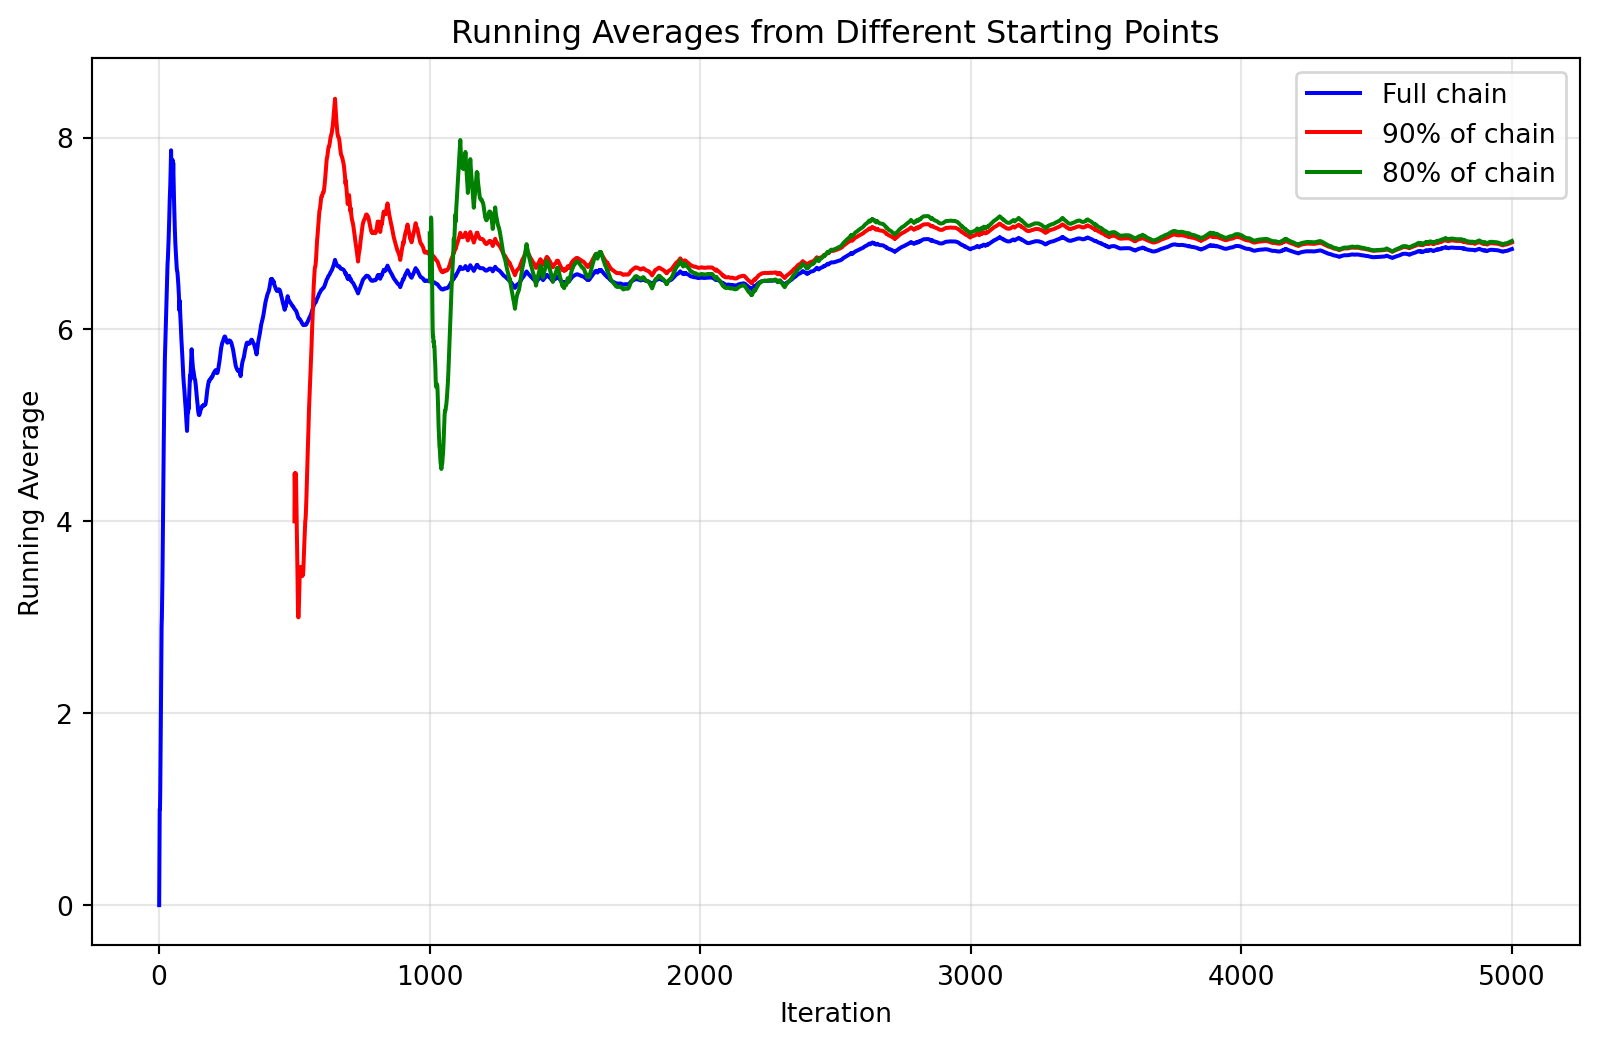
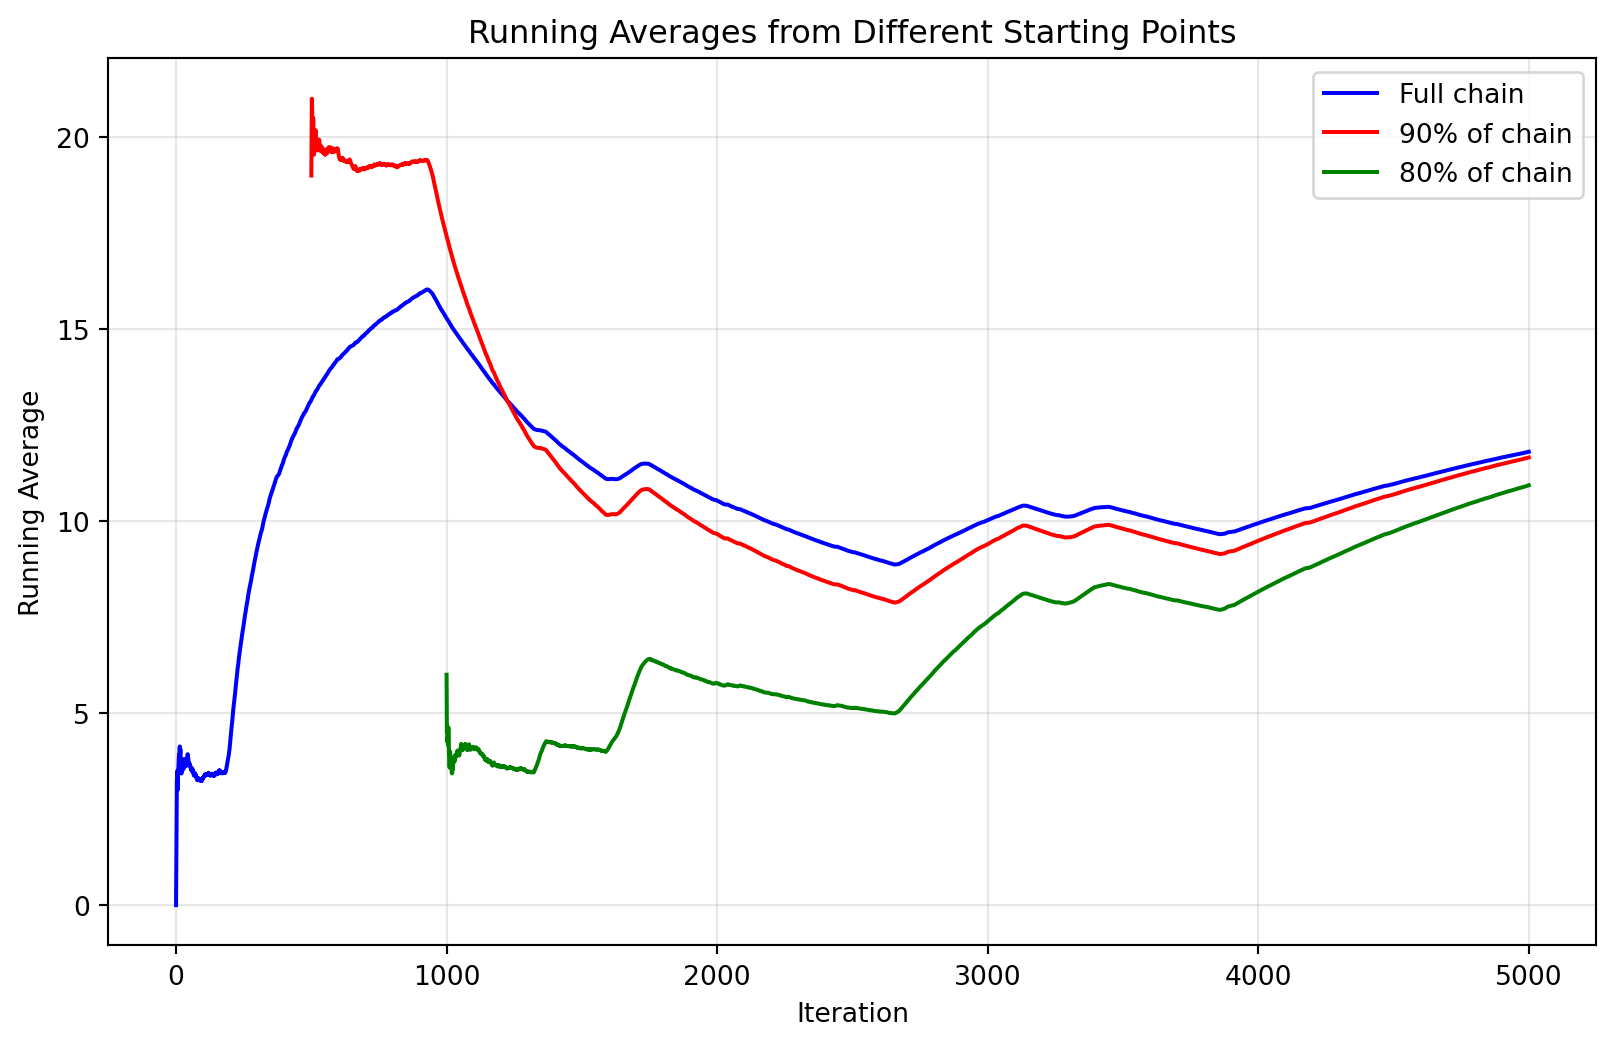
playing with graph theory

diff --git a/docs/appendices/markov_chains.html b/docs/appendices/markov_chains.html
@@ -437,6 +437,12 @@ window.Quarto = {
 </li>
           <li class="sidebar-item">
   <div class="sidebar-item-container"> 
+  <a href="../chapters/applications/mmn.html" class="sidebar-item-text sidebar-link">
+ <span class="menu-text"><span class="chapter-number">15</span>&nbsp; <span class="chapter-title">M/M/n Queue</span></span></a>
+  </div>
+</li>
+          <li class="sidebar-item">
+  <div class="sidebar-item-container"> 
   <a href="../chapters/applications/bootstrap.html" class="sidebar-item-text sidebar-link">
  <span class="menu-text"><span class="chapter-number">16</span>&nbsp; <span class="chapter-title">Bootstrap</span></span></a>
   </div>
@@ -454,6 +460,12 @@ window.Quarto = {
       <ul id="quarto-sidebar-section-4" class="collapse list-unstyled sidebar-section depth1 show">  
           <li class="sidebar-item">
   <div class="sidebar-item-container"> 
+  <a href="../chapters/dynamical/kalman_filters.html" class="sidebar-item-text sidebar-link">
+ <span class="menu-text"><span class="chapter-number">17</span>&nbsp; <span class="chapter-title">Kalman Filters</span></span></a>
+  </div>
+</li>
+          <li class="sidebar-item">
+  <div class="sidebar-item-container"> 
   <a href="../chapters/dynamical/particle_filters.html" class="sidebar-item-text sidebar-link">
  <span class="menu-text"><span class="chapter-number">18</span>&nbsp; <span class="chapter-title">Particle Filters</span></span></a>
   </div>
@@ -469,6 +481,24 @@ window.Quarto = {
           </a> 
       </div>
       <ul id="quarto-sidebar-section-5" class="collapse list-unstyled sidebar-section depth1 show">  
+          <li class="sidebar-item">
+  <div class="sidebar-item-container"> 
+  <a href="../chapters/optimization/index.html" class="sidebar-item-text sidebar-link">
+ <span class="menu-text"><span class="chapter-number">19</span>&nbsp; <span class="chapter-title">Optimization</span></span></a>
+  </div>
+</li>
+          <li class="sidebar-item">
+  <div class="sidebar-item-container"> 
+  <a href="../chapters/optimization/simulated_annealing.html" class="sidebar-item-text sidebar-link">
+ <span class="menu-text"><span class="chapter-number">20</span>&nbsp; <span class="chapter-title">Simulated Annealing</span></span></a>
+  </div>
+</li>
+          <li class="sidebar-item">
+  <div class="sidebar-item-container"> 
+  <a href="../chapters/optimization/cross_entropy.html" class="sidebar-item-text sidebar-link">
+ <span class="menu-text"><span class="chapter-number">21</span>&nbsp; <span class="chapter-title">Cross Entropy Method</span></span></a>
+  </div>
+</li>
       </ul>
   </li>
         <li class="sidebar-item">
@@ -647,7 +677,7 @@ State Diagrams
 \end{pmatrix}.\]</span></p>
 <p>Suppose we start at vertex <span class="math inline">\(A\)</span>. This means that the initial distribution is <span class="math inline">\(\pi_0 = [1, 0, 0, 0]\)</span>. The <span class="math inline">\(n\)</span>-th distribution <span class="math inline">\(\pi_n\)</span> can be obtained by multiplying <span class="math inline">\(\pi_0\)</span> with the transition matrix <span class="math inline">\(P^n\)</span>.</p>
 </div>
-<div id="c20d5729" class="cell" data-execution_count="3">
+<div id="b8471021" class="cell" data-execution_count="2">
 <div class="cell-output cell-output-display">
 <div>
 <figure class="figure">
@@ -791,7 +821,7 @@ Practical Significance of Mixing Time
 <p><strong>Example.</strong> Consider <a href="#exm-random-walk" class="quarto-xref">Example&nbsp;<span>B.1</span></a> again. If we start at vertex <span class="math inline">\(A\)</span>, by step 4 we have already reached the distribution <span class="math inline">\(\pi_4 = [0.222, 0.167, 0.306, 0.306]\)</span>. The stationary distribution is <span class="math inline">\(\Pi = [1/8, 4/8, 2/8, 2/8]\)</span>. The total variation distance between <span class="math inline">\(\pi_4\)</span> and <span class="math inline">\(\Pi\)</span> is <span class="math inline">\(\| \pi_4 - \Pi \|_{\text{TV}} = 0.21\)</span>. This is less than <span class="math inline">\(1/4\)</span>, and hence the mixing time is at most 4 for this initial distribution.</p>
 <p>This only computes the mixing time for the initial distribution <span class="math inline">\(\pi_0 = [1, 0, 0, 0]\)</span>. In general, we need to compute the mixing time for all possible initial distributions. The mixing time is the maximum of these mixing times over all initial distributions.</p>
 <p>In practice, we either provide a theoretical bound on the mixing time or “visually” inspect the convergence of the chain to the stationary distribution. Running a simulation to compute the mixing time is computationally expensive and not commonly done.</p>
-<div id="38383527" class="cell" data-execution_count="4">
+<div id="988ea9c6" class="cell" data-execution_count="3">
 <div class="cell-output cell-output-display">
 <div>
 <figure class="figure">
@@ -852,24 +882,29 @@ Algorithm: Markov Chain Sampling
 </div>
 <p>One big issue with this algorithm is that the samples are highly correlated. If independence is important, selecting every <span class="math inline">\(k\)</span>-th sample may be beneficial. However, this leads to a lot of wasted samples and it might not get rid of all the correlation. In practice, it is better to generate a large number of samples than to “thin” the samples.</p>
 <div id="exm-random-walk-on-graph" class="theorem example">
-<p><span class="theorem-title"><strong>Example B.2</strong></span> In the example below we generate a uniform distribution over <span class="math inline">\(\{0, 1, \ldots, 14\}\)</span> by generating a random walk over a cycle of length 15.</p>
-<p>The autocorrelation plot below shows the correlation between samples at different lags, i.e., <span class="math inline">\(X_i\)</span> and <span class="math inline">\(X_{i+k}\)</span> for different values of <span class="math inline">\(k\)</span>. We can see that the correlation decreases as <span class="math inline">\(k\)</span> increases and stabilizes around <span class="math inline">\(k = 40\)</span>.</p>
-<p>We can either discard the first 40 samples or select every 40th sample to reduce the correlation. If independence is important, then we should select every 40th sample. However, this leads to a lot of wasted samples and it might not get rid of all the correlation. This method is not preferred in practice. In practice, it is better to generate a large number of samples than to “thin” the samples.</p>
+<p><span class="theorem-title"><strong>Example B.2</strong></span> In the example below we consider a random walk on a <strong>barbell graph</strong>—two complete subgraphs (cliques) connected by a single bridge edge. This graph demonstrates poor mixing properties: a random walk starting in one clique takes a very long time to reach and properly sample the other clique.</p>
+<p>The barbell graph has a small spectral gap, leading to slow convergence to the stationary distribution. The stationary distribution should be uniform over all nodes, but as we’ll see, even after thousands of steps, the distribution remains highly concentrated in the starting clique.</p>
+<p>This example illustrates why burn-in is critical. Without sufficient burn-in, samples will not represent the true stationary distribution, leading to biased estimates.</p>
 </div>
-<div id="b2761e4c" class="cell" data-fold="true" data-execution_count="5">
+<div id="a0b9322a" class="cell" data-fold="true" data-execution_count="4">
 <div class="cell-output cell-output-display">
 <div>
 <figure class="figure">
-<p><img src="markov_chains_files/figure-html/cell-5-output-1.png" width="691" height="519" class="figure-img"></p>
+<p><img src="markov_chains_files/figure-html/cell-5-output-1.png" width="979" height="423" class="figure-img"></p>
 </figure>
 </div>
 </div>
 <div class="cell-output cell-output-display">
 <div>
 <figure class="figure">
-<p><img src="markov_chains_files/figure-html/cell-5-output-2.png" width="764" height="374" class="figure-img"></p>
+<p><img src="markov_chains_files/figure-html/cell-5-output-2.png" width="1142" height="375" class="figure-img"></p>
 </figure>
 </div>
+</div>
+<div class="cell-output cell-output-stdout">
+<pre><code>
+First visit to second clique at step: 158
+This represents 3.2% of the total walk length</code></pre>
 </div>
 </div>
 </section>
@@ -967,12 +1002,12 @@ Algorithm: Trace Plot Analysis
 <section id="trace-plots" class="level3" data-number="B.9.1">
 <h3 data-number="B.9.1" class="anchored" data-anchor-id="trace-plots"><span class="header-section-number">B.9.1</span> Trace Plots</h3>
 <p>A trace plot is simply a scatter plot of the samples generated by the Markov chain. It is useful to see if the Markov chain has converged. If the Markov chain has converged, the trace plot should look like a cloud of points. If the Markov chain has not converged, the trace plot will show a trend.</p>
-<p>Below are the trace plots for <a href="#exm-random-walk-on-graph" class="quarto-xref">Example&nbsp;<span>B.2</span></a>. We can see that the chain does not look uniform even after 1000 samples but after 5000 samples it is starting to look uniform.</p>
-<div id="a784925c" class="cell" data-fold="true" data-execution_count="6">
+<p>Below are the trace plots for <a href="#exm-random-walk-on-graph" class="quarto-xref">Example&nbsp;<span>B.2</span></a>. We can see that the chain does not look uniform even after 1000 samples. After 5000 samples it is starting to mix better, but still shows concentration in the starting clique. Even with 20000 steps, the chain may still not be fully mixed, demonstrating the severe mixing issues with the barbell graph.</p>
+<div id="54b8aa3e" class="cell" data-fold="true" data-execution_count="5">
 <div class="cell-output cell-output-display">
 <div>
 <figure class="figure">
-<p><img src="markov_chains_files/figure-html/cell-6-output-1.png" width="756" height="374" class="figure-img"></p>
+<p><img src="markov_chains_files/figure-html/cell-6-output-1.png" width="1331" height="374" class="figure-img"></p>
 </figure>
 </div>
 </div>
@@ -1020,18 +1055,18 @@ Important Limitations of Running Averages
 <p>Use running averages as <strong>supporting evidence</strong> for your autocorrelation-based burn-in determination, not as the primary diagnostic.</p>
 <div id="exm">
 <p>Below is the running average analysis for <a href="#exm-random-walk-on-graph" class="quarto-xref">Example&nbsp;<span>B.2</span></a>.</p>
-<div id="95b904bf" class="cell" data-fold="true" data-execution_count="7">
+<div id="afa9ca18" class="cell" data-fold="true" data-execution_count="6">
 <div class="cell-output cell-output-display">
 <div>
 <figure class="figure">
-<p><img src="markov_chains_files/figure-html/cell-7-output-1.png" width="799" height="523" class="figure-img"></p>
+<p><img src="markov_chains_files/figure-html/cell-7-output-1.png" width="808" height="523" class="figure-img"></p>
 </figure>
 </div>
 </div>
 <div class="cell-output cell-output-stdout">
-<pre><code>Final running average (full chain): 6.838
-Average of last 80% of chain: 6.922
-Difference: 0.084</code></pre>
+<pre><code>Final running average (full chain): 11.807
+Average of last 80% of chain: 10.935
+Difference: 0.872</code></pre>
 </div>
 </div>
 </div>
@@ -1088,19 +1123,19 @@ Interpreting Autocorrelation Results
 <p>From this analysis, we can see whether the autocorrelation patterns are similar across different starting points. If they are, the chain has likely converged by the earliest point where this stability is observed. This approach is more principled than simply thresholding autocorrelation values, as it’s based on the fundamental property that converged Markov chains have time-invariant statistical properties.</p>
 <div id="exm-autocorrelation" class="theorem example">
 <p><span class="theorem-title"><strong>Example B.4</strong></span> Below is the autocorrelation analysis for <a href="#exm-random-walk-on-graph" class="quarto-xref">Example&nbsp;<span>B.2</span></a>. Rather than simply looking for where autocorrelation drops below a threshold, we examine whether the autocorrelation pattern has stabilized across different portions of the chain.</p>
-<div id="f66db0e4" class="cell" data-fold="true" data-execution_count="8">
+<div id="d8f04e9d" class="cell" data-fold="true" data-execution_count="7">
 <div class="cell-output cell-output-display">
 <div>
 <figure class="figure">
-<p><img src="markov_chains_files/figure-html/cell-8-output-1.png" width="961" height="449" class="figure-img"></p>
+<p><img src="markov_chains_files/figure-html/cell-8-output-1.png" width="969" height="449" class="figure-img"></p>
 </figure>
 </div>
 </div>
 <div class="cell-output cell-output-stdout">
 <pre><code>Similarity analysis:
-Burn-in 0 vs 500: similarity = 0.003
-Burn-in 500 vs 1000: similarity = 0.005
-Burn-in 1000 vs 1250: similarity = 0.009
+Burn-in 0 vs 500: similarity = 0.001
+Burn-in 500 vs 1000: similarity = 0.001
+Burn-in 1000 vs 1250: similarity = 0.005
 
 Based on visual inspection and similarity analysis, no burn-in is required.</code></pre>
 </div>
